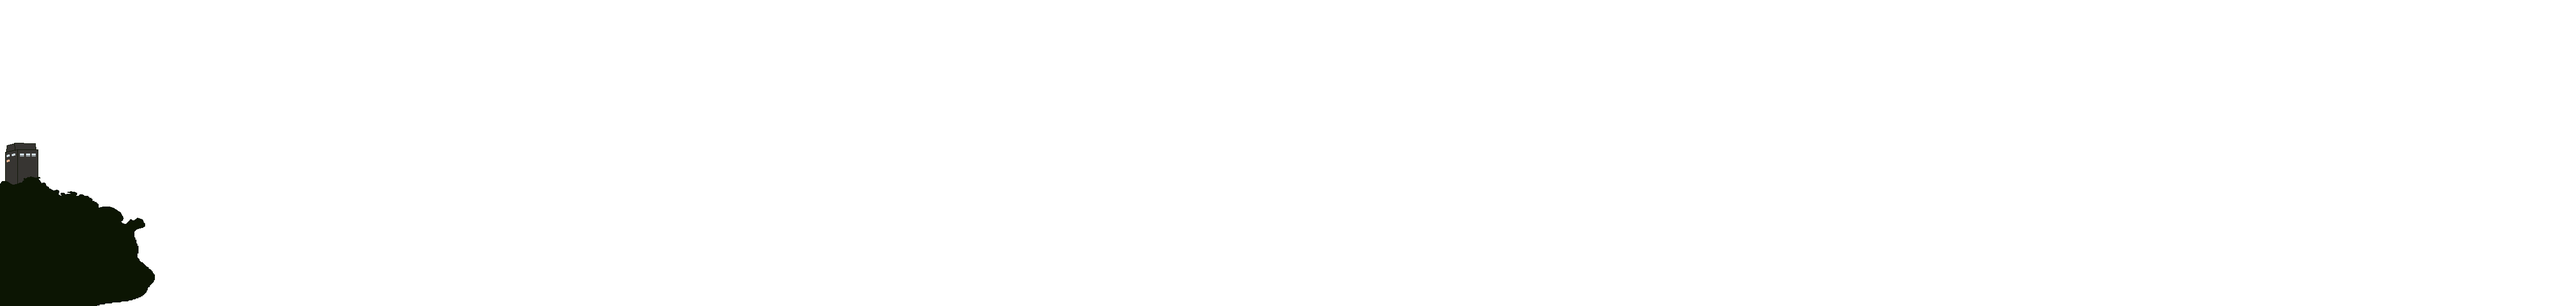
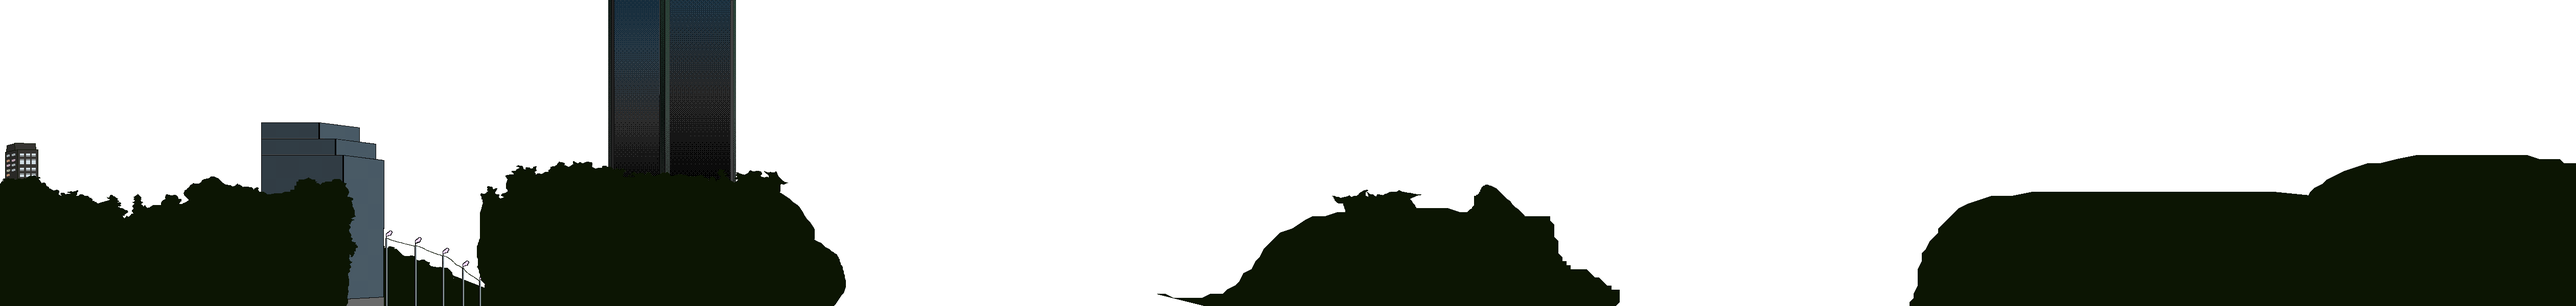
Adding opening cutscene

diff --git a/src/scenes/BrainvilleScene.js b/src/scenes/BrainvilleScene.js
@@ -1,5 +1,7 @@
 import 'phaser';
 import MajorBrainer from '../characters/MajorBrainer';
+import MiniBrainGroup from '../characters/MiniBrains';
+import createAnimations from '../config/animations';
 import Bullet from '../shooting/Bullet';
 
 const Delay = (ms) => {
@@ -14,11 +16,12 @@ export default class BrainvilleScene extends Phaser.Scene {
 
     preload() {
         // Game properties
-        this.physics.world.setBounds(0, 0, 5040, 600);
+        this.physics.world.setBounds(0, 0, 10000, 600);
 
         // Load Spritesheets
         this.load.spritesheet('major', 'assets/images/major-brainer-walk-anim.png', { frameWidth: 64, frameHeight: 96 });
-        this.load.spritesheet('major-shoot', 'assets/images/major-brainer-walk-shoot.png', {frameWidth: 64, frameHeight: 96});
+        this.load.spritesheet('major-shoot', 'assets/images/major-brainer-walk-shoot.png', { frameWidth: 64, frameHeight: 96 });
+        this.load.spritesheet('mini-brain-slide', 'assets/images/mini-brain-move-anim.png', { frameWidth: 16, frameHeight: 14 });
 
         //Load Tilemaps
         this.load.tilemapTiledJSON('street-map', 'assets/tilemaps/Street.json');
@@ -35,6 +38,7 @@ export default class BrainvilleScene extends Phaser.Scene {
         // Load world stuff
         this.load.image('background', 'assets/images/background1.png');
         this.load.image('tree-city-background', 'assets/images/TreeCityBackground.png');
+        this.load.image('bridge', 'assets/images/Bridge.png');
         this.load.image('bullet', 'assets/images/bullet.png');
         this.load.image('nsx', 'assets/images/nsx.png');
 
@@ -52,7 +56,8 @@ export default class BrainvilleScene extends Phaser.Scene {
         // Add background and set camera to bounds of image size
         let bg = this.add.image(0, 0, 'background').setScrollFactor(0).setOrigin(0, 0);
         let tcb = this.add.image(0, 0, 'tree-city-background').setOrigin(0, 0).setScrollFactor(0.5);
-        this.cameras.main.setBounds(0, 0, 5040, bg.displayHeight);
+        let bridge = this.add.image(3050, 250, 'bridge').setScale(4);
+        this.cameras.main.setBounds(0, 0, 10000, bg.displayHeight);
 
         /**
          * Tilemap Data
@@ -69,55 +74,23 @@ export default class BrainvilleScene extends Phaser.Scene {
         var streetPositionYPlatform = this.physics.world.bounds.bottom - (platformMap.height * platformMap.tileHeight);
         console.log(streetPositionYPlatform);
         // create middleground layers
-        platformMap.createLayer('Building', buildingTileset, 0, streetPositionYPlatform -237);
-        platformMap.createLayer('concrete-wall', wallTileset, 0, streetPositionYPlatform -16);
-        platformMap.createLayer('trees-front', bushTileset, 0, streetPositionYPlatform -48);
+        platformMap.createLayer('Building', buildingTileset, 0, streetPositionYPlatform - 237);
+        platformMap.createLayer('concrete-wall', wallTileset, 0, streetPositionYPlatform - 16);
+        platformMap.createLayer('trees-front', bushTileset, 0, streetPositionYPlatform - 48);
 
         //Create street
         this.platforms = platformMap.createLayer('Street', concreteTileset, 0, streetPositionYPlatform);
         this.platforms.setCollisionByExclusion(-1, true);
 
         // Generate animations
-        this.anims.create({
-            key: 'stop',
-            frames: this.anims.generateFrameNumbers('major', { frames: [0] }),
-            frameRate: 0
-        });
-        this.anims.create({
-            key: 'walk',
-            frames: this.anims.generateFrameNumbers('major', { frames: [0, 1, 2, 3, 4, 5, 6, 7, 8, 9, 10, 11, 0] }),
-            frameRate: 16,
-            repeat: -1
-        });
-        this.anims.create({
-            key: 'walk-backwards',
-            frames: this.anims.generateFrameNumbers('major', { frames: [0, 1, 2, 3, 0] }),
-            frameRate: 8,
-            repeat: 0
-        });
-        this.anims.create({
-            key: 'stop-shoot',
-            frames: this.anims.generateFrameNumbers('major-shoot', { frames: [0] }),
-            frameRate: 0
-        });
-        this.anims.create({
-            key: 'walk-shoot',
-            frames: this.anims.generateFrameNumbers('major-shoot', { frames: [0, 1, 2, 3, 0] }),
-            frameRate: 8,
-            repeat: -1
-        });
-        this.anims.create({
-            key: 'walk-backwards-shoot',
-            frames: this.anims.generateFrameNumbers('major-shoot', { frames: [0, 1, 2, 3, 0] }),
-            frameRate: 8,
-            repeat: 0
-        });
+        var createAnims = createAnimations.bind(this);
+        createAnims();
 
         /**
          * Load welcome to brainville song
          */
         var brainvilleSong = this.sound.add('welcome-to-brainville');
-        // brainvilleSong.play();
+        // /brainvilleSong.play();
 
         // Load the keyboard keys
         this.cursors = this.input.keyboard.createCursorKeys();
@@ -126,6 +99,7 @@ export default class BrainvilleScene extends Phaser.Scene {
         /**
          * Character/World Loading
          */
+        this.miniBrains = new MiniBrainGroup(this);
         this._loadWorld(this.cache.json.get('world-init'), this);
     }
 
@@ -141,9 +115,20 @@ export default class BrainvilleScene extends Phaser.Scene {
         /**
          * Decorations
          */
-        this.add.image(data.car.x, data.car.y, 'nsx').setScale(0.2).setOrigin(0,0);
+        this.add.image(data.car.x, data.car.y, 'nsx').setScale(0.2).setOrigin(0, 0);
         this.major = new MajorBrainer(this, data.major.x, data.major.y, 'major');
         this.cameras.main.startFollow(this.major);
+
+        /** 
+         * Mini Brains
+         */
+        var miniBrainPositions = data.miniBrains;
+        this.miniBrains.init(miniBrainPositions.length);
+        miniBrainPositions.forEach(function (obj) {this.miniBrains.startMiniBrain(obj.x, obj.y)}, this);
+    }
+
+    _loadMiniBrains(data) {
+
     }
 
     async _addEvents(time) {
@@ -177,7 +162,7 @@ export default class BrainvilleScene extends Phaser.Scene {
         bullet.fire(this.major.x + 30, this.major.y - 15);
         this.shotCount += 1;
 
-        var glockShot = this.sound.add('glock-shot', {volume: 0.15});
+        var glockShot = this.sound.add('glock-shot', { volume: 0.15 });
         glockShot.play();
     }
 }

diff --git a/src/scenes/OpeningCutscene.js b/src/scenes/OpeningCutscene.js
@@ -1,0 +1,101 @@
+export default class OpeningCutscene extends Phaser.Scene {
+    constructor() {
+        super();
+    }
+
+    preload() {
+        this.load.spritesheet('cut-scene-1', 'assets/images/OpeningCutscene-1.png', { frameWidth: 400, frameHeight: 300 });
+        this.load.spritesheet('cut-scene-2', 'assets/images/OpeningCutscene-2.png', { frameWidth: 400, frameHeight: 300 });
+        this.load.spritesheet('cut-scene-3', 'assets/images/OpeningCutscene-3.png', { frameWidth: 400, frameHeight: 300 });
+        this.load.spritesheet('cut-scene-4', 'assets/images/OpeningCutscene-4.png', { frameWidth: 400, frameHeight: 300 });
+        this.load.spritesheet('cut-scene-5', 'assets/images/OpeningCutscene-5.png', { frameWidth: 400, frameHeight: 300 });
+        this.load.spritesheet('cut-scene-6', 'assets/images/OpeningCutscene-6.png', { frameWidth: 400, frameHeight: 300 });
+        this.load.spritesheet('cut-scene-7', 'assets/images/OpeningCutscene-7.png', { frameWidth: 400, frameHeight: 300 });
+    }
+
+    create() {
+
+        this.anims.create({
+            key: 'title-scene-play-1',
+            frames: this.anims.generateFrameNumbers('cut-scene-1', { start: 0, end: 26 }),
+            frameRate: 16,
+            repeat: 0
+        });
+        this.anims.create({
+            key: 'title-scene-play-2',
+            frames: this.anims.generateFrameNumbers('cut-scene-2', { start: 0, end: 26 }),
+            frameRate: 16,
+            repeat: 0
+        });
+        this.anims.create({
+            key: 'title-scene-play-3',
+            frames: this.anims.generateFrameNumbers('cut-scene-3', { start: 0, end: 26 }),
+            frameRate: 16,
+            repeat: 0
+        });
+        this.anims.create({
+            key: 'title-scene-play-4',
+            frames: this.anims.generateFrameNumbers('cut-scene-4', { start: 0, end: 26 }),
+            frameRate: 16,
+            repeat: 0
+        });
+        this.anims.create({
+            key: 'title-scene-play-5',
+            frames: this.anims.generateFrameNumbers('cut-scene-5', { start: 0, end: 26 }),
+            frameRate: 16,
+            repeat: 0
+        });
+        this.anims.create({
+            key: 'title-scene-play-6',
+            frames: this.anims.generateFrameNumbers('cut-scene-6', { start: 0, end: 26 }),
+            frameRate: 8,
+            repeat: 0
+        });
+        this.anims.create({
+            key: 'title-scene-play-7',
+            frames: this.anims.generateFrameNumbers('cut-scene-7', { start: 0, end: 26 }),
+            frameRate: 16,
+            repeat: 0
+        });
+
+        var cutsceneSprite1 = this.add.sprite(0, 0, 'cut-scene-1').setOrigin(0, 0).setScale(2).setVisible(false);
+        var cutsceneSprite2 = this.add.sprite(0, 0, 'cut-scene-2').setOrigin(0, 0).setScale(2).setVisible(false);
+        var cutsceneSprite3 = this.add.sprite(0, 0, 'cut-scene-3').setOrigin(0, 0).setScale(2).setVisible(false);
+        var cutsceneSprite4 = this.add.sprite(0, 0, 'cut-scene-4').setOrigin(0, 0).setScale(2).setVisible(false);
+        var cutsceneSprite5 = this.add.sprite(0, 0, 'cut-scene-5').setOrigin(0, 0).setScale(2).setVisible(false);
+        var cutsceneSprite6 = this.add.sprite(0, 0, 'cut-scene-6').setOrigin(0, 0).setScale(2).setVisible(false);
+        var cutsceneSprite7 = this.add.sprite(0, 0, 'cut-scene-7').setOrigin(0, 0).setScale(2).setVisible(false);
+
+        cutsceneSprite1.setVisible(true).play('title-scene-play-1');
+
+        cutsceneSprite1.on('animationcomplete-title-scene-play-1', function () {
+            cutsceneSprite1.destroy;
+            cutsceneSprite2.setVisible(true).play('title-scene-play-2');
+        }, this);
+
+        cutsceneSprite2.on('animationcomplete-title-scene-play-2', function () {
+            cutsceneSprite2.destroy;
+            cutsceneSprite3.setVisible(true).play('title-scene-play-3');
+        }, this);
+
+        cutsceneSprite3.on('animationcomplete-title-scene-play-3', function () {
+            cutsceneSprite3.destroy;
+            cutsceneSprite4.setVisible(true).play('title-scene-play-4');
+        }, this);
+
+        cutsceneSprite4.on('animationcomplete-title-scene-play-4', function () {
+            cutsceneSprite4.destroy;
+            cutsceneSprite5.setVisible(true).play('title-scene-play-5');
+        }, this);
+
+        cutsceneSprite5.on('animationcomplete-title-scene-play-5', function () {
+            cutsceneSprite5.destroy;
+            cutsceneSprite6.setVisible(true).play('title-scene-play-6');
+        }, this);
+
+        cutsceneSprite6.on('animationcomplete-title-scene-play-6', function () {
+            cutsceneSprite6.destroy;
+            cutsceneSprite7.setVisible(true).play('title-scene-play-7');
+        }, this);
+    }
+}

diff --git a/src/characters/MiniBrains.js b/src/characters/MiniBrains.js
@@ -1,0 +1,59 @@
+export default class MiniBrainGroup extends Phaser.Physics.Arcade.Group {
+
+    constructor (scene) {
+        super (scene.physics.world, scene);
+    }
+
+    init(size) {
+        this.createMultiple({
+            classType: MiniBrain,
+            frameQuantity: size,
+            active: false,
+            visible: false,
+            key: 'mini-brain -slide'
+        })
+    }
+
+    startMiniBrain(x, y) {
+        var miniBrain = this.getFirstDead(false);
+        if (miniBrain) {
+            miniBrain.startMoving(x, y);
+        }
+    }
+}
+
+class MiniBrain extends Phaser.Physics.Arcade.Sprite {
+    constructor(scene, x, y) {
+        super(scene, x, y);
+        this.scene = scene;
+        this.velocity = -90;
+    }
+
+    preUpdate(time, delta) {
+        super.preUpdate(time, delta);
+        if (this.body.blocked.right) {
+            this.flipX = false;
+            this.setVelocityX(this.velocity);
+        } else if (this.body.blocked.left) {
+            this.flipX = true;
+            this.setVelocityX(-this.velocity);
+        }
+    }
+
+    startMoving(x, y) {
+        this.body.setCollideWorldBounds();
+
+        // Start animations
+        (!this.anims.isPlaying || this.anims.key !== 'brain-slide') &&
+                    this.anims.play('brain-slide', true);
+        
+        // Add body to the scene and set it to move
+        this.scene.physics.add.collider(this, this.scene.platforms);
+        this.body.reset(x, y);
+        this.setScale(2);
+        this.body.setSize(this.width/this.scale.x, this.height/this.scale.y);
+        this.setActive(true);
+        this.setVisible(true);
+        this.setVelocityX(this.velocity);
+    }
+}

diff --git a/src/config/animations.js b/src/config/animations.js
@@ -1,0 +1,43 @@
+export default function createAnimations() {
+    // Generate animations
+    this.anims.create({
+        key: 'stop',
+        frames: this.anims.generateFrameNumbers('major', { frames: [0] }),
+        frameRate: 0
+    });
+    this.anims.create({
+        key: 'walk',
+        frames: this.anims.generateFrameNumbers('major', { frames: [0, 1, 2, 3, 4, 5, 6, 7, 8, 9, 10, 11, 0] }),
+        frameRate: 16,
+        repeat: -1
+    });
+    this.anims.create({
+        key: 'walk-backwards',
+        frames: this.anims.generateFrameNumbers('major', { frames: [0, 1, 2, 3, 0] }),
+        frameRate: 8,
+        repeat: 0
+    });
+    this.anims.create({
+        key: 'stop-shoot',
+        frames: this.anims.generateFrameNumbers('major-shoot', { frames: [0] }),
+        frameRate: 0
+    });
+    this.anims.create({
+        key: 'walk-shoot',
+        frames: this.anims.generateFrameNumbers('major-shoot', { frames: [0, 1, 2, 3, 0] }),
+        frameRate: 8,
+        repeat: -1
+    });
+    this.anims.create({
+        key: 'walk-backwards-shoot',
+        frames: this.anims.generateFrameNumbers('major-shoot', { frames: [0, 1, 2, 3, 0] }),
+        frameRate: 8,
+        repeat: 0
+    });
+    this.anims.create({
+        key: 'brain-slide',
+        frames: this.anims.generateFrameNumbers('mini-brain-slide', { frames: [0, 1] }),
+        frameRate: 8,
+        repeat: -1
+    });
+}

diff --git a/src/characters/MajorBrainer.js b/src/characters/MajorBrainer.js
@@ -12,6 +12,9 @@ export default class extends Phaser.Physics.Arcade.Sprite {
         scene.physics.add.existing(this);
         this.body.setCollideWorldBounds();
 
+        // Set the hitbox size
+        this.body.setSize(this.width/this.scale.x, this.height/this.scale.y);
+
         // Collisions
         scene.physics.add.collider(this, scene.platforms);
 
@@ -34,7 +37,6 @@ export default class extends Phaser.Physics.Arcade.Sprite {
                 (!this.anims.isPlaying || this.anims.key !== 'walk-shoot') &&
                     this.anims.play('walk-shoot', true);
             } else {
-
                 (!this.anims.isPlaying || this.anims.key !== 'walk') &&
                     this.anims.play('walk', true);
             }

diff --git a/src/index.js b/src/index.js
@@ -1,6 +1,7 @@
 import Phaser from 'phaser';
 import config from './config/config';
 import BrainvilleScene from './scenes/BrainvilleScene';
+import OpeningCutscene from './scenes/OpeningCutscene';
 import TitleScene from './scenes/TitleScene';
 
 // const game = new Phaser.Game(config);
@@ -11,6 +12,7 @@ class Game extends Phaser.Game {
 
         // Add Brainville scene
         this.scene.add('Title', TitleScene);
+        this.scene.add('OpeningScene', OpeningCutscene);
         this.scene.add('Brainville', BrainvilleScene);
         this.scene.start('Title');
     }

diff --git a/src/scenes/TitleScene.js b/src/scenes/TitleScene.js
@@ -19,7 +19,7 @@ export default class TitleScene extends Phaser.Scene {
     _clickButton() {
         this.cameras.main.fadeOut(1000, 0, 0, 0);
         this.cameras.main.once(Phaser.Cameras.Scene2D.Events.FADE_OUT_COMPLETE, (cam, effect) => {
-            this.scene.start('Brainville');
+            this.scene.start('OpeningScene');
         })
     }
 
